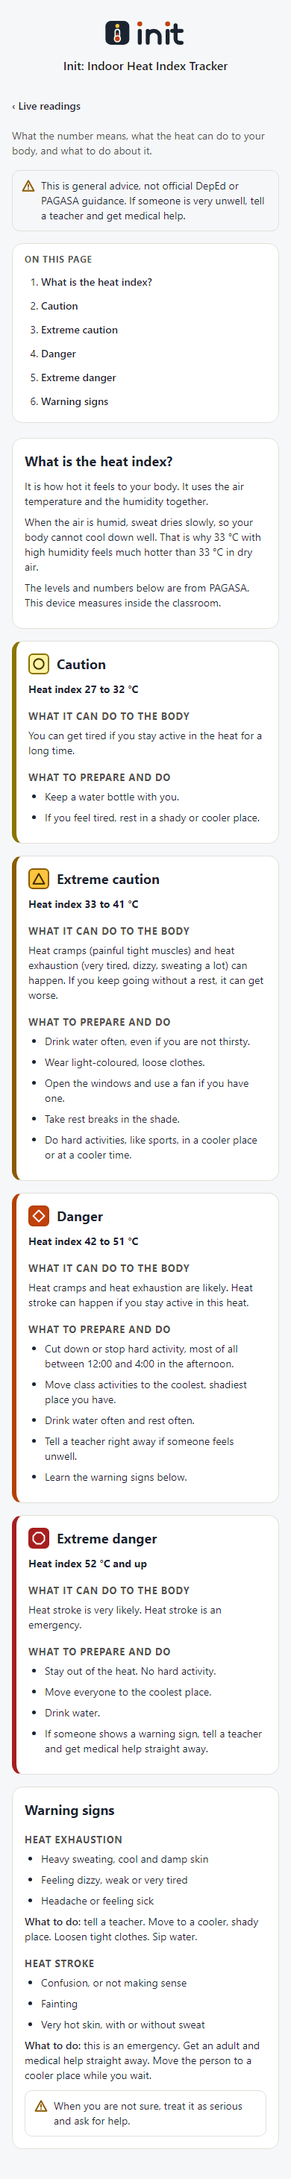
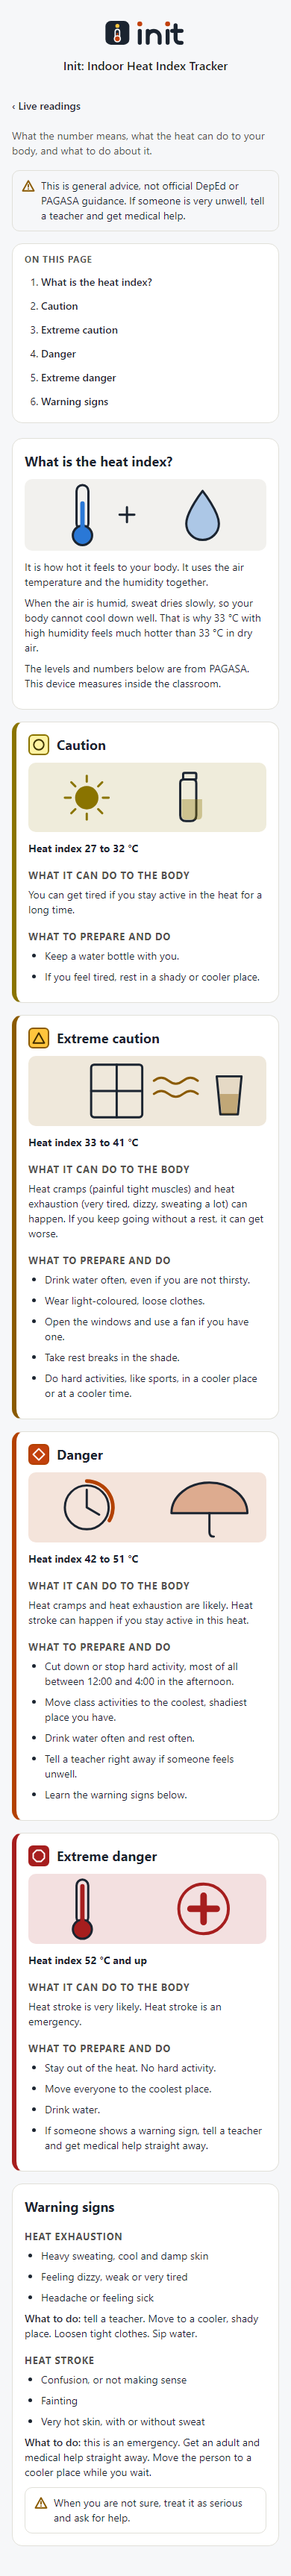
F-15 extended mocks: a small picture for each level and the intro
Inline SVG, decoration only. Mocks only, nothing built.

diff --git a/design/heat-info/heat.html b/design/heat-info/heat.html
@@ -30,11 +30,13 @@
   </ol></nav>
 
   <section class="gd-sec" id="what"><h2>What is the heat index?</h2>
+    <svg class="hl-art hl-art-what" viewBox="0 0 326 96" aria-hidden="true" fill="none" stroke="var(--viz-ink)" stroke-width="3" stroke-linecap="round" stroke-linejoin="round"><rect x="70" y="8" width="16" height="60" rx="8"/><circle cx="78" cy="76" r="13" fill="var(--series-hi)"/><rect x="75" y="30" width="6" height="42" rx="3" fill="var(--series-hi)" stroke="none"/><path d="M128 48h20M138 38v20"/><path d="M240 16C240 16 218 44 218 60a22 22 0 0 0 44 0C262 44 240 16 240 16z" fill="var(--series-hi)" fill-opacity=".35"/></svg>
     <p>It is how hot it feels to your body. It uses the air temperature and the humidity together.</p>
     <p>When the air is humid, sweat dries slowly, so your body cannot cool down well. That is why 33 °C with high humidity feels much hotter than 33 °C in dry air.</p>
     <p>The levels and numbers below are from PAGASA. This device measures inside the classroom.</p></section>
 
   <section class="gd-sec hl-sec hl-caution" id="caution"><h2><span class="school-chip sc-caution"><svg viewBox="0 0 24 24" aria-hidden="true"><circle cx="12" cy="12" r="9"/></svg></span>Caution</h2>
+    <svg class="hl-art hl-art-caution" viewBox="0 0 326 96" aria-hidden="true" fill="none" stroke="var(--viz-ink)" stroke-width="3" stroke-linecap="round" stroke-linejoin="round"><circle cx="80" cy="48" r="16" fill="var(--heat-caution-border)" stroke="none"/><g stroke="var(--heat-caution-border)"><path d="M102.0 48.0 L110.0 48.0"/><path d="M95.6 63.6 L101.2 69.2"/><path d="M80.0 70.0 L80.0 78.0"/><path d="M64.4 63.6 L58.8 69.2"/><path d="M58.0 48.0 L50.0 48.0"/><path d="M64.4 32.4 L58.8 26.8"/><path d="M80.0 26.0 L80.0 18.0"/><path d="M95.6 32.4 L101.2 26.8"/></g><rect x="212" y="14" width="18" height="9" rx="2"/><path d="M208 28q0-5 5-5h12q5 0 5 5v44q0 8-8 8h-6q-8 0-8-8z"/><path d="M210 50h28v22q0 6-6 6h-16q-6 0-6-6z" fill="var(--heat-caution-border)" fill-opacity=".35" stroke="none"/></svg>
     <p class="hl-range">Heat index 27 to 32 °C</p>
     <h3>What it can do to the body</h3>
     <p>You can get tired if you stay active in the heat for a long time.</p>
@@ -42,6 +44,7 @@
     <ul><li>Keep a water bottle with you.</li><li>If you feel tired, rest in a shady or cooler place.</li></ul></section>
 
   <section class="gd-sec hl-sec hl-extreme-caution" id="extreme-caution"><h2><span class="school-chip sc-extreme-caution"><svg viewBox="0 0 24 24" aria-hidden="true"><path d="M12 3 22 21H2z"/></svg></span>Extreme caution</h2>
+    <svg class="hl-art hl-art-extreme-caution" viewBox="0 0 326 96" aria-hidden="true" fill="none" stroke="var(--viz-ink)" stroke-width="3" stroke-linecap="round" stroke-linejoin="round"><rect x="86" y="12" width="70" height="72" rx="4"/><path d="M121 12v72M86 48h70"/><path d="M172 34q10-8 20 0t20 0t20 0M172 52q10-8 20 0t20 0t20 0" stroke="var(--heat-extreme-caution-border)"/><path d="M258 28h34l-5 52h-24z" fill="var(--heat-extreme-caution-border)" fill-opacity=".1"/><path d="M262 52h26l-3 28h-20z" fill="var(--heat-extreme-caution-border)" fill-opacity=".4" stroke="none"/></svg>
     <p class="hl-range">Heat index 33 to 41 °C</p>
     <h3>What it can do to the body</h3>
     <p>Heat cramps (painful tight muscles) and heat exhaustion (very tired, dizzy, sweating a lot) can happen. If you keep going without a rest, it can get worse.</p>
@@ -49,6 +52,7 @@
     <ul><li>Drink water often, even if you are not thirsty.</li><li>Wear light-coloured, loose clothes.</li><li>Open the windows and use a fan if you have one.</li><li>Take rest breaks in the shade.</li><li>Do hard activities, like sports, in a cooler place or at a cooler time.</li></ul></section>
 
   <section class="gd-sec hl-sec hl-danger" id="danger"><h2><span class="school-chip sc-danger"><svg viewBox="0 0 24 24" aria-hidden="true"><path d="M12 2 22 12 12 22 2 12z"/></svg></span>Danger</h2>
+    <svg class="hl-art hl-art-danger" viewBox="0 0 326 96" aria-hidden="true" fill="none" stroke="var(--viz-ink)" stroke-width="3" stroke-linecap="round" stroke-linejoin="round"><circle cx="80" cy="48" r="30"/><path d="M80 48V24M80 48l17 10"/><path d="M80 12A36 36 0 0 1 111 66" stroke="var(--heat-danger-border)" stroke-width="5"/><path d="M196 56a52 42 0 0 1 104 0z" fill="var(--heat-danger-border)" fill-opacity=".35"/><path d="M248 56v26q0 6 6 6"/></svg>
     <p class="hl-range">Heat index 42 to 51 °C</p>
     <h3>What it can do to the body</h3>
     <p>Heat cramps and heat exhaustion are likely. Heat stroke can happen if you stay active in this heat.</p>
@@ -56,6 +60,7 @@
     <ul><li>Cut down or stop hard activity, most of all between 12:00 and 4:00 in the afternoon.</li><li>Move class activities to the coolest, shadiest place you have.</li><li>Drink water often and rest often.</li><li>Tell a teacher right away if someone feels unwell.</li><li>Learn the warning signs below.</li></ul></section>
 
   <section class="gd-sec hl-sec hl-extreme-danger" id="extreme-danger"><h2><span class="school-chip sc-extreme-danger"><svg viewBox="0 0 24 24" aria-hidden="true"><path d="M8 2h8l6 6v8l-6 6H8l-6-6V8z"/></svg></span>Extreme danger</h2>
+    <svg class="hl-art hl-art-extreme-danger" viewBox="0 0 326 96" aria-hidden="true" fill="none" stroke="var(--viz-ink)" stroke-width="3" stroke-linecap="round" stroke-linejoin="round"><rect x="66" y="8" width="16" height="60" rx="8"/><circle cx="74" cy="76" r="13" fill="var(--heat-extreme-danger-border)"/><rect x="71" y="14" width="6" height="58" rx="3" fill="var(--heat-extreme-danger-border)" stroke="none"/><circle cx="240" cy="48" r="34" stroke="var(--heat-extreme-danger-border)" stroke-width="4"/><path d="M240 30v36M222 48h36" stroke="var(--heat-extreme-danger-border)" stroke-width="9"/></svg>
     <p class="hl-range">Heat index 52 °C and up</p>
     <h3>What it can do to the body</h3>
     <p>Heat stroke is very likely. Heat stroke is an emergency.</p>

diff --git a/design/heat-info/heat-info.css b/design/heat-info/heat-info.css
@@ -8,3 +8,10 @@
 .hl-danger { border-left-color: var(--heat-danger-border); }
 .hl-extreme-danger { border-left-color: var(--heat-extreme-danger-border); }
 .hl-signs { margin: 0 0 8px; padding-left: 22px; }
+
+/* Decorative pictures (inline SVG): a calm panel, tinted with the level's own colour. */
+.hl-art { display: block; width: 100%; height: auto; margin: 0 0 12px; border-radius: 10px; background: color-mix(in srgb, var(--viz-grid) 45%, var(--viz-surface)); }
+.hl-art-caution { background: color-mix(in srgb, var(--heat-caution-border) 14%, var(--viz-surface)); }
+.hl-art-extreme-caution { background: color-mix(in srgb, var(--heat-extreme-caution-border) 14%, var(--viz-surface)); }
+.hl-art-danger { background: color-mix(in srgb, var(--heat-danger-border) 14%, var(--viz-surface)); }
+.hl-art-extreme-danger { background: color-mix(in srgb, var(--heat-extreme-danger-border) 14%, var(--viz-surface)); }

diff --git a/design/heat-info/README.md b/design/heat-info/README.md
@@ -5,7 +5,7 @@
 | File | What |
 |---|---|
 | `home-danger.html`, `home-caution.html` | The approved home mock with one new link, **What does this mean? ›**, inside the heat card under the level name (it opens `#heat/<level>`); same text colour as the level, so the contrast of the card is unchanged |
-| `heat.html` | The `#heat` page: a "general advice" note, what the heat index is, one part per level (range, what it can do to the body, what to prepare and do), and warning signs for heat exhaustion and heat stroke |
+| `heat.html` | The `#heat` page: a "general advice" note, what the heat index is, one part per level, each with a small picture (range, picture, what it can do to the body, what to prepare and do). The pictures are flat inline SVG drawn in `build-mocks.mjs` (no image files, no copyright, they work offline and follow light and dark); they are decoration and hidden from screen readers: Caution = sun and water bottle, Extreme caution = open window, airflow and a glass of water, Danger = a clock with 12 to 4 marked and shade, Extreme danger = thermometer and a medical cross; the intro has a thermometer and a water drop, and warning signs for heat exhaustion and heat stroke |
 | `heat-info.css` | The few new styles |
 | `build-mocks.mjs`, `capture.mjs` | `node design/heat-info/build-mocks.mjs`, then `capture.mjs` writes `ref/<state>-<phone\|desktop>-<light\|dark>.png` |
 
